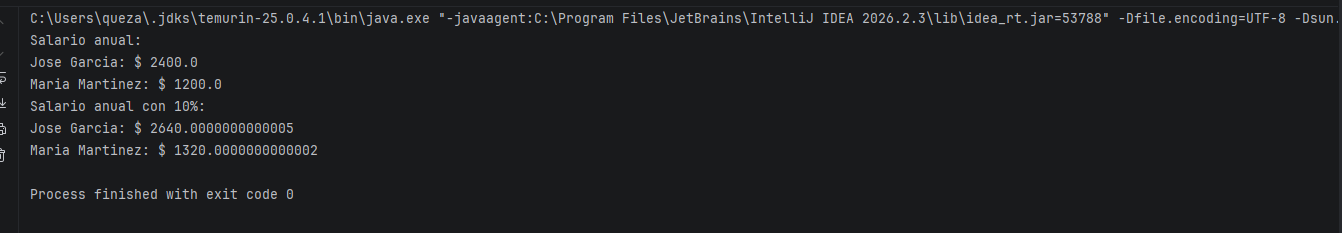
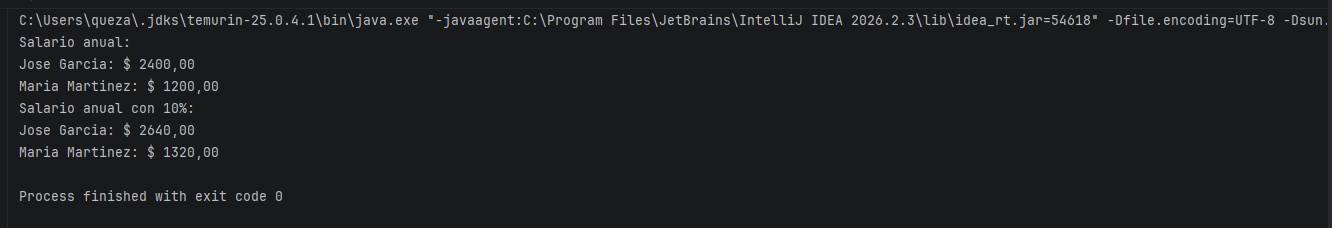
Se corrigieron los decimales

diff --git a/src/ejercicio3_13_empleado/PruebaEmpleado.java b/src/ejercicio3_13_empleado/PruebaEmpleado.java
@@ -6,13 +6,13 @@ public class PruebaEmpleado{
         Empleado e2 = new Empleado("Maria", "Martinez", 100);
         double aumento = 1.10; // aumento del 10 porsiento
         System.out.println("Salario anual: ");
-        System.out.println(e1.getNombre() + " " + e1.getApellido() + ": $ " + e1.getsalarioAnual());
-        System.out.println(e2.getNombre() + " " + e2.getApellido() + ": $ " + e2.getsalarioAnual());
+        System.out.println(e1.getNombre() + " " + e1.getApellido() + ": $ " + String.format("%.2f", e1.getsalarioAnual()));
+        System.out.println(e2.getNombre() + " " + e2.getApellido() + ": $ " + String.format("%.2f", e2.getsalarioAnual()));
         // se le aplica el aumeto a cada empleado
         e1.setsalario(e1.getsalario() * aumento);
         e2.setsalario(e2.getsalario() * aumento);
         System.out.println("Salario anual con 10%: ");
-        System.out.println(e1.getNombre() + " " + e1.getApellido() + ": $ " + e1.getsalarioAnual());
-        System.out.println(e2.getNombre() + " " + e2.getApellido() + ": $ " + e2.getsalarioAnual());
+        System.out.println(e1.getNombre() + " " + e1.getApellido() + ": $ " + String.format("%.2f", e1.getsalarioAnual()));
+        System.out.println(e2.getNombre() + " " + e2.getApellido() + ": $ " + String.format("%.2f", e2.getsalarioAnual()));
     }
 }

diff --git a/src/ejercicio3_12_factura/PruebaFactura.java b/src/ejercicio3_12_factura/PruebaFactura.java
@@ -10,8 +10,8 @@ public class PruebaFactura {
         System.out.println("Numero de pieza: " + factura1.getNumeroDePieza());
         System.out.println("Descripcion: " + factura1.getDescricionPieza());
         System.out.println("Cantidad de venta: " + factura1.getCantidadCompra());
-        System.out.println("Precio: " + factura1.getPrecio());
-        System.out.println("El total es: " + factura1.obtenerMontoFactura());
+        System.out.println("Precio: " + String.format("%.2f", factura1.getPrecio()));
+        System.out.println("El total es: " + String.format("%.2f", factura1.obtenerMontoFactura()));
 
         System.out.println();
 
@@ -21,8 +21,8 @@ public class PruebaFactura {
         System.out.println("Numero de pieza: " + factura2.getNumeroDePieza());
         System.out.println("Descripcion: " + factura2.getDescricionPieza());
         System.out.println("Cantidad de venta: " + factura2.getCantidadCompra());
-        System.out.println("Precio: " + factura2.getPrecio());
-        System.out.println("El total es: " + factura2.obtenerMontoFactura());
+        System.out.println("Precio: " + String.format("%.2f", factura2.getPrecio()));
+        System.out.println("El total es: " + String.format("%.2f", factura2.obtenerMontoFactura()));
         //se quedan en cero y no los valores negativos
     }
 }

diff --git a/src/ejercicio3_16_frecuenciacardiaca/FrecuenciaCardiacas.java b/src/ejercicio3_16_frecuenciacardiaca/FrecuenciaCardiacas.java
@@ -16,7 +16,6 @@ public class FrecuenciaCardiacas {
         this.mes = mes;
         this.anio = anio;
     }
-
     // Métodos establecer y obtener
     public void setNombre(String nombre) {
         this.nombre = nombre;
@@ -57,7 +56,6 @@ public class FrecuenciaCardiacas {
     public int getAnio() {
         return anio;
     }
-
     // metodos de calculo
     // calcula la edad, si todavia no a cumplido años en este año se le resta uno
     public int edad(){
@@ -76,7 +74,7 @@ public class FrecuenciaCardiacas {
 
     // rango esperado entre el 50 y el 85 porciento de la maxima
     public String FrecuenciaEsperada (){
-        return (PulsosMaximos() * 0.50) + " - " + (PulsosMaximos() * 0.85);
+        return String.format("%.2f - %.2f", PulsosMaximos() * 0.50, PulsosMaximos() * 0.85);
     }
 
     public String getInfo (){

diff --git a/src/ejercicio3_17_perfilmedico/PruebaPerfilMedico.java b/src/ejercicio3_17_perfilmedico/PruebaPerfilMedico.java
@@ -46,7 +46,7 @@ public class PruebaPerfilMedico {
         System.out.println("Edad: " + perfil.edadUsuario() + " anios");
         System.out.println("Frecuencia cardiaca maxima: " + perfil.frecuenciaCardiacaMaxima() + " latidos por minuto");
         System.out.println("Rango de frecuencia esperada: " + perfil.frecuenciaCardiacaEsperada() + " latidos por minuto");
-        System.out.println("Indice de Masa Corporal (BMI): " + perfil.calcularBMI());
+        System.out.println("Indice de Masa Corporal (BMI): " + String.format("%.2f", perfil.calcularBMI()));
 
         // tabla de los valores del BMI
         System.out.println("\n VALORES DE BMI ");

diff --git a/src/ejercicio3_17_perfilmedico/PerfilMedico.java b/src/ejercicio3_17_perfilmedico/PerfilMedico.java
@@ -113,7 +113,7 @@ public class PerfilMedico {
         double minimoEsperado = maxima * 0.50;
         double maximoEsperado = maxima * 0.85;
 
-        return minimoEsperado + " - " + maximoEsperado;
+        return String.format("%.2f - %.2f", minimoEsperado, maximoEsperado);
     }
 
     // indice de masa corporal, la altura se combierte de centimetros a metros
